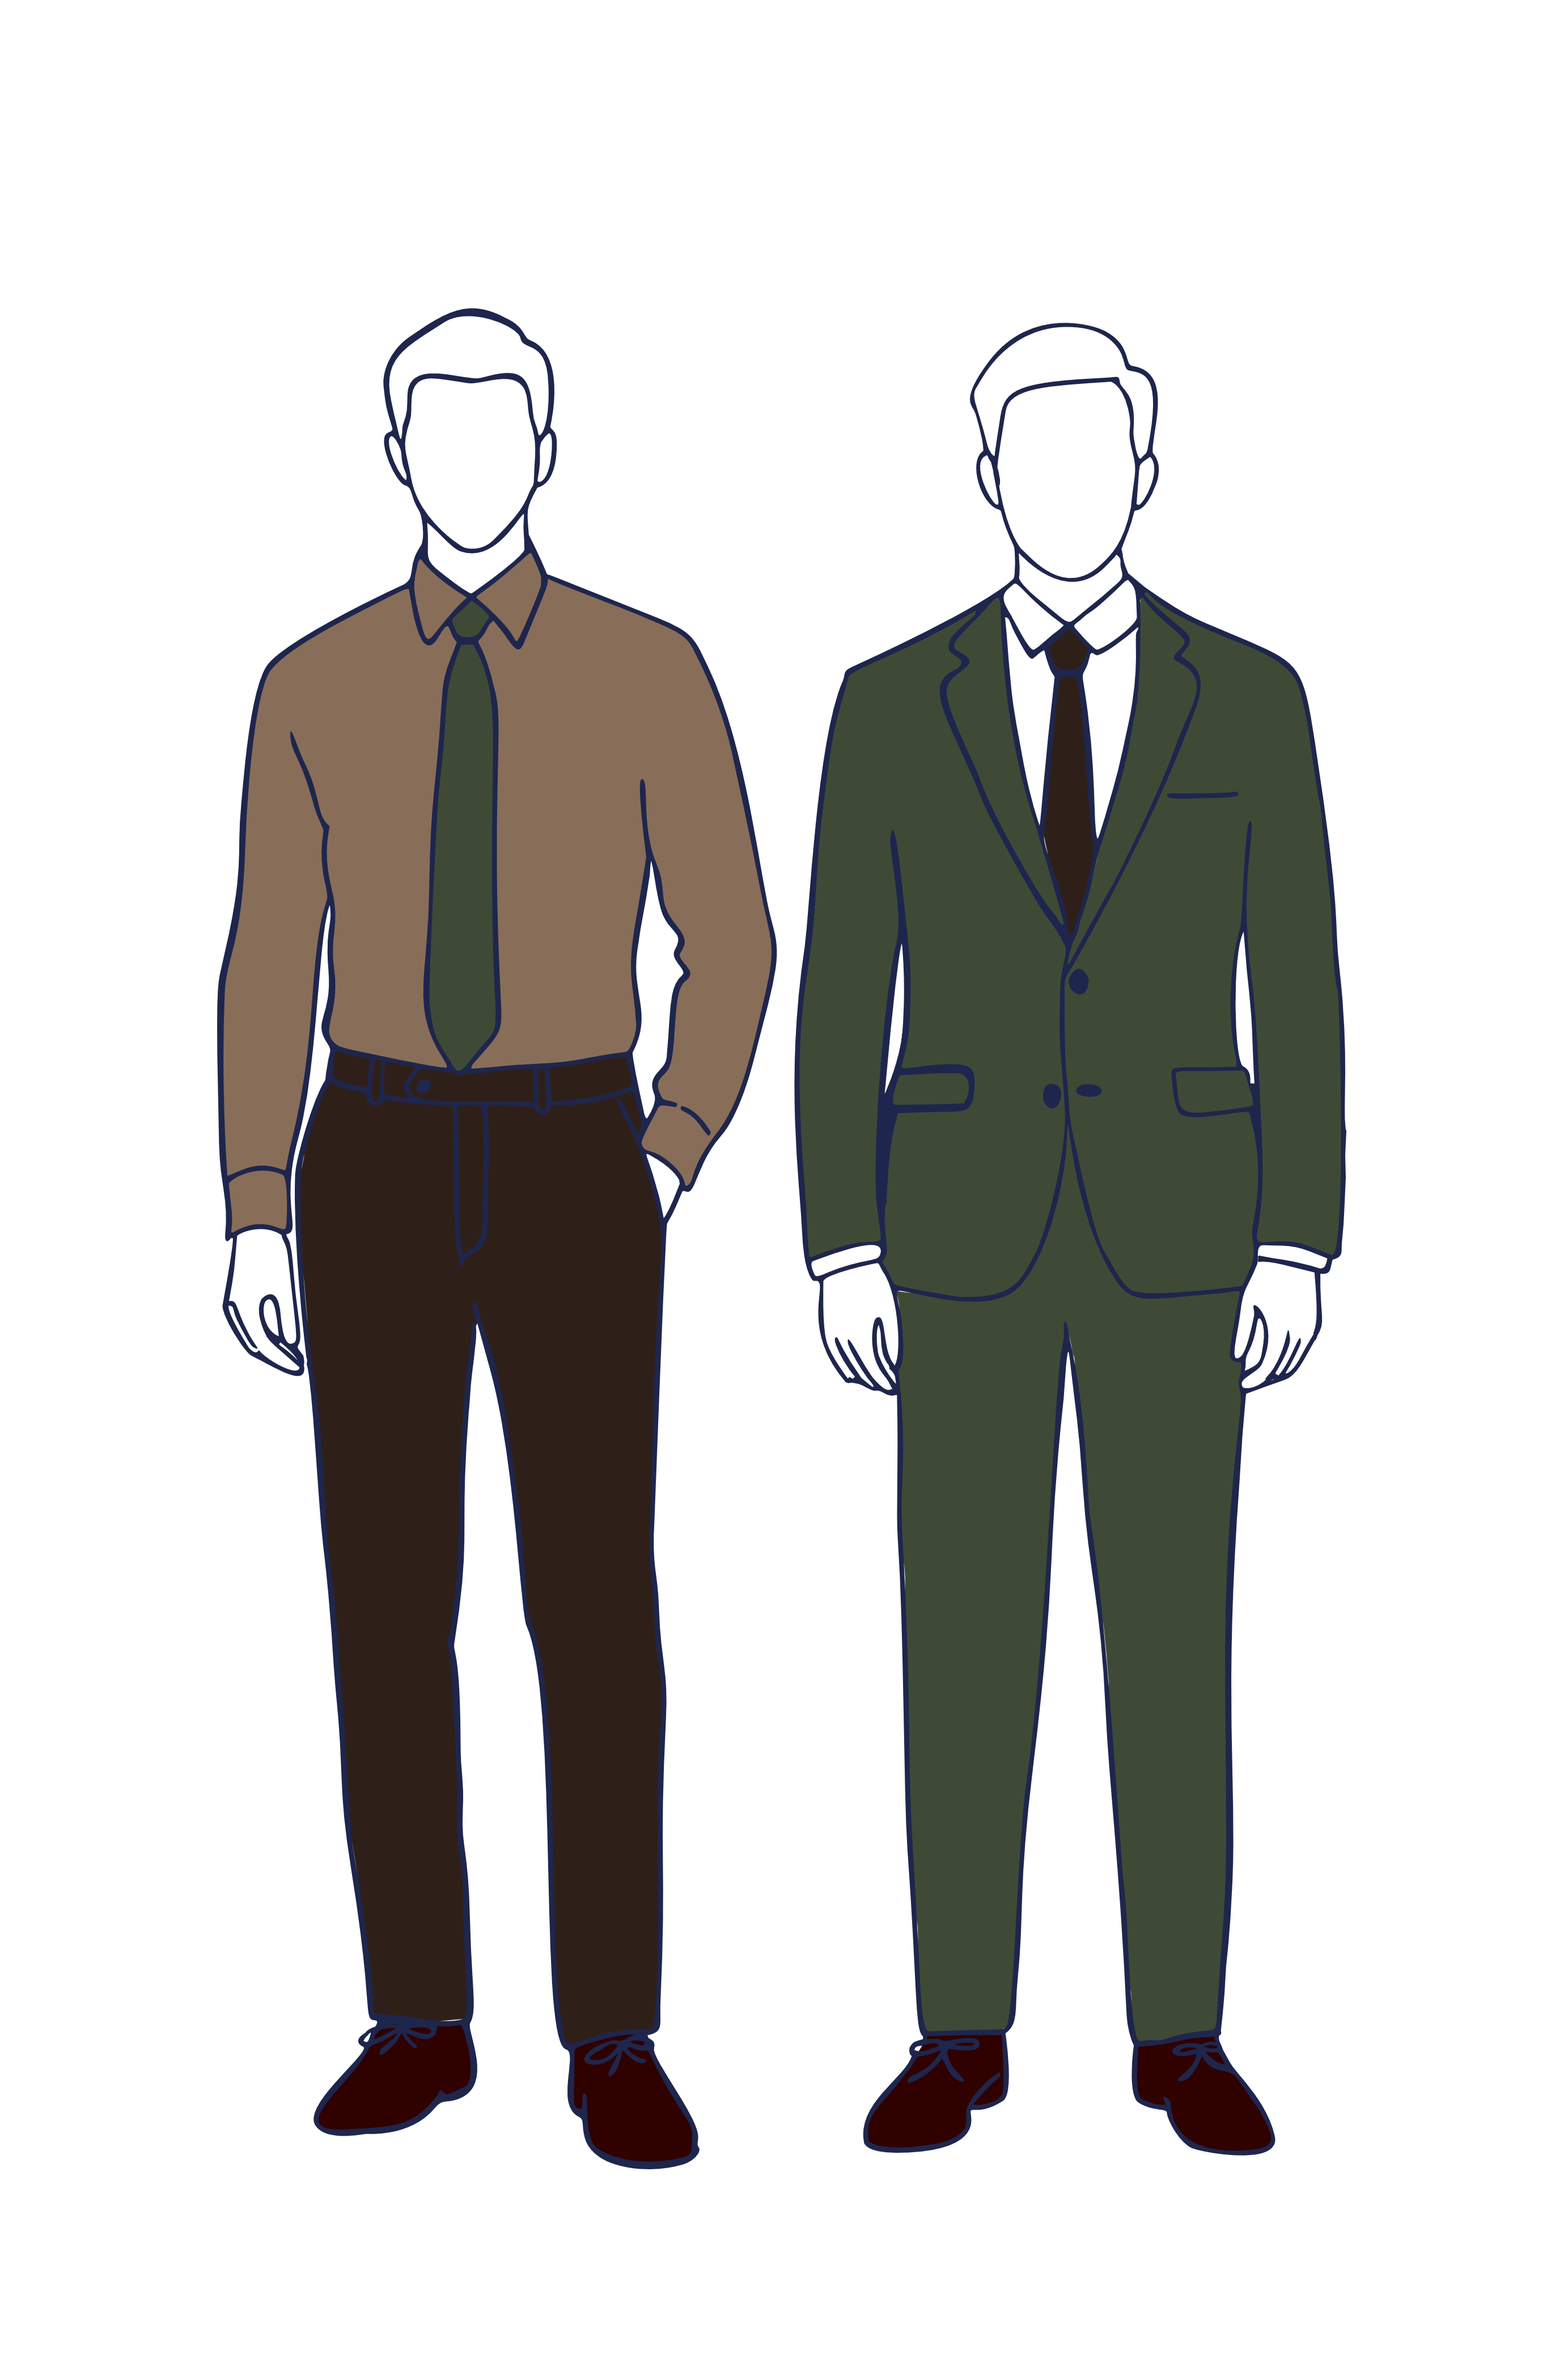
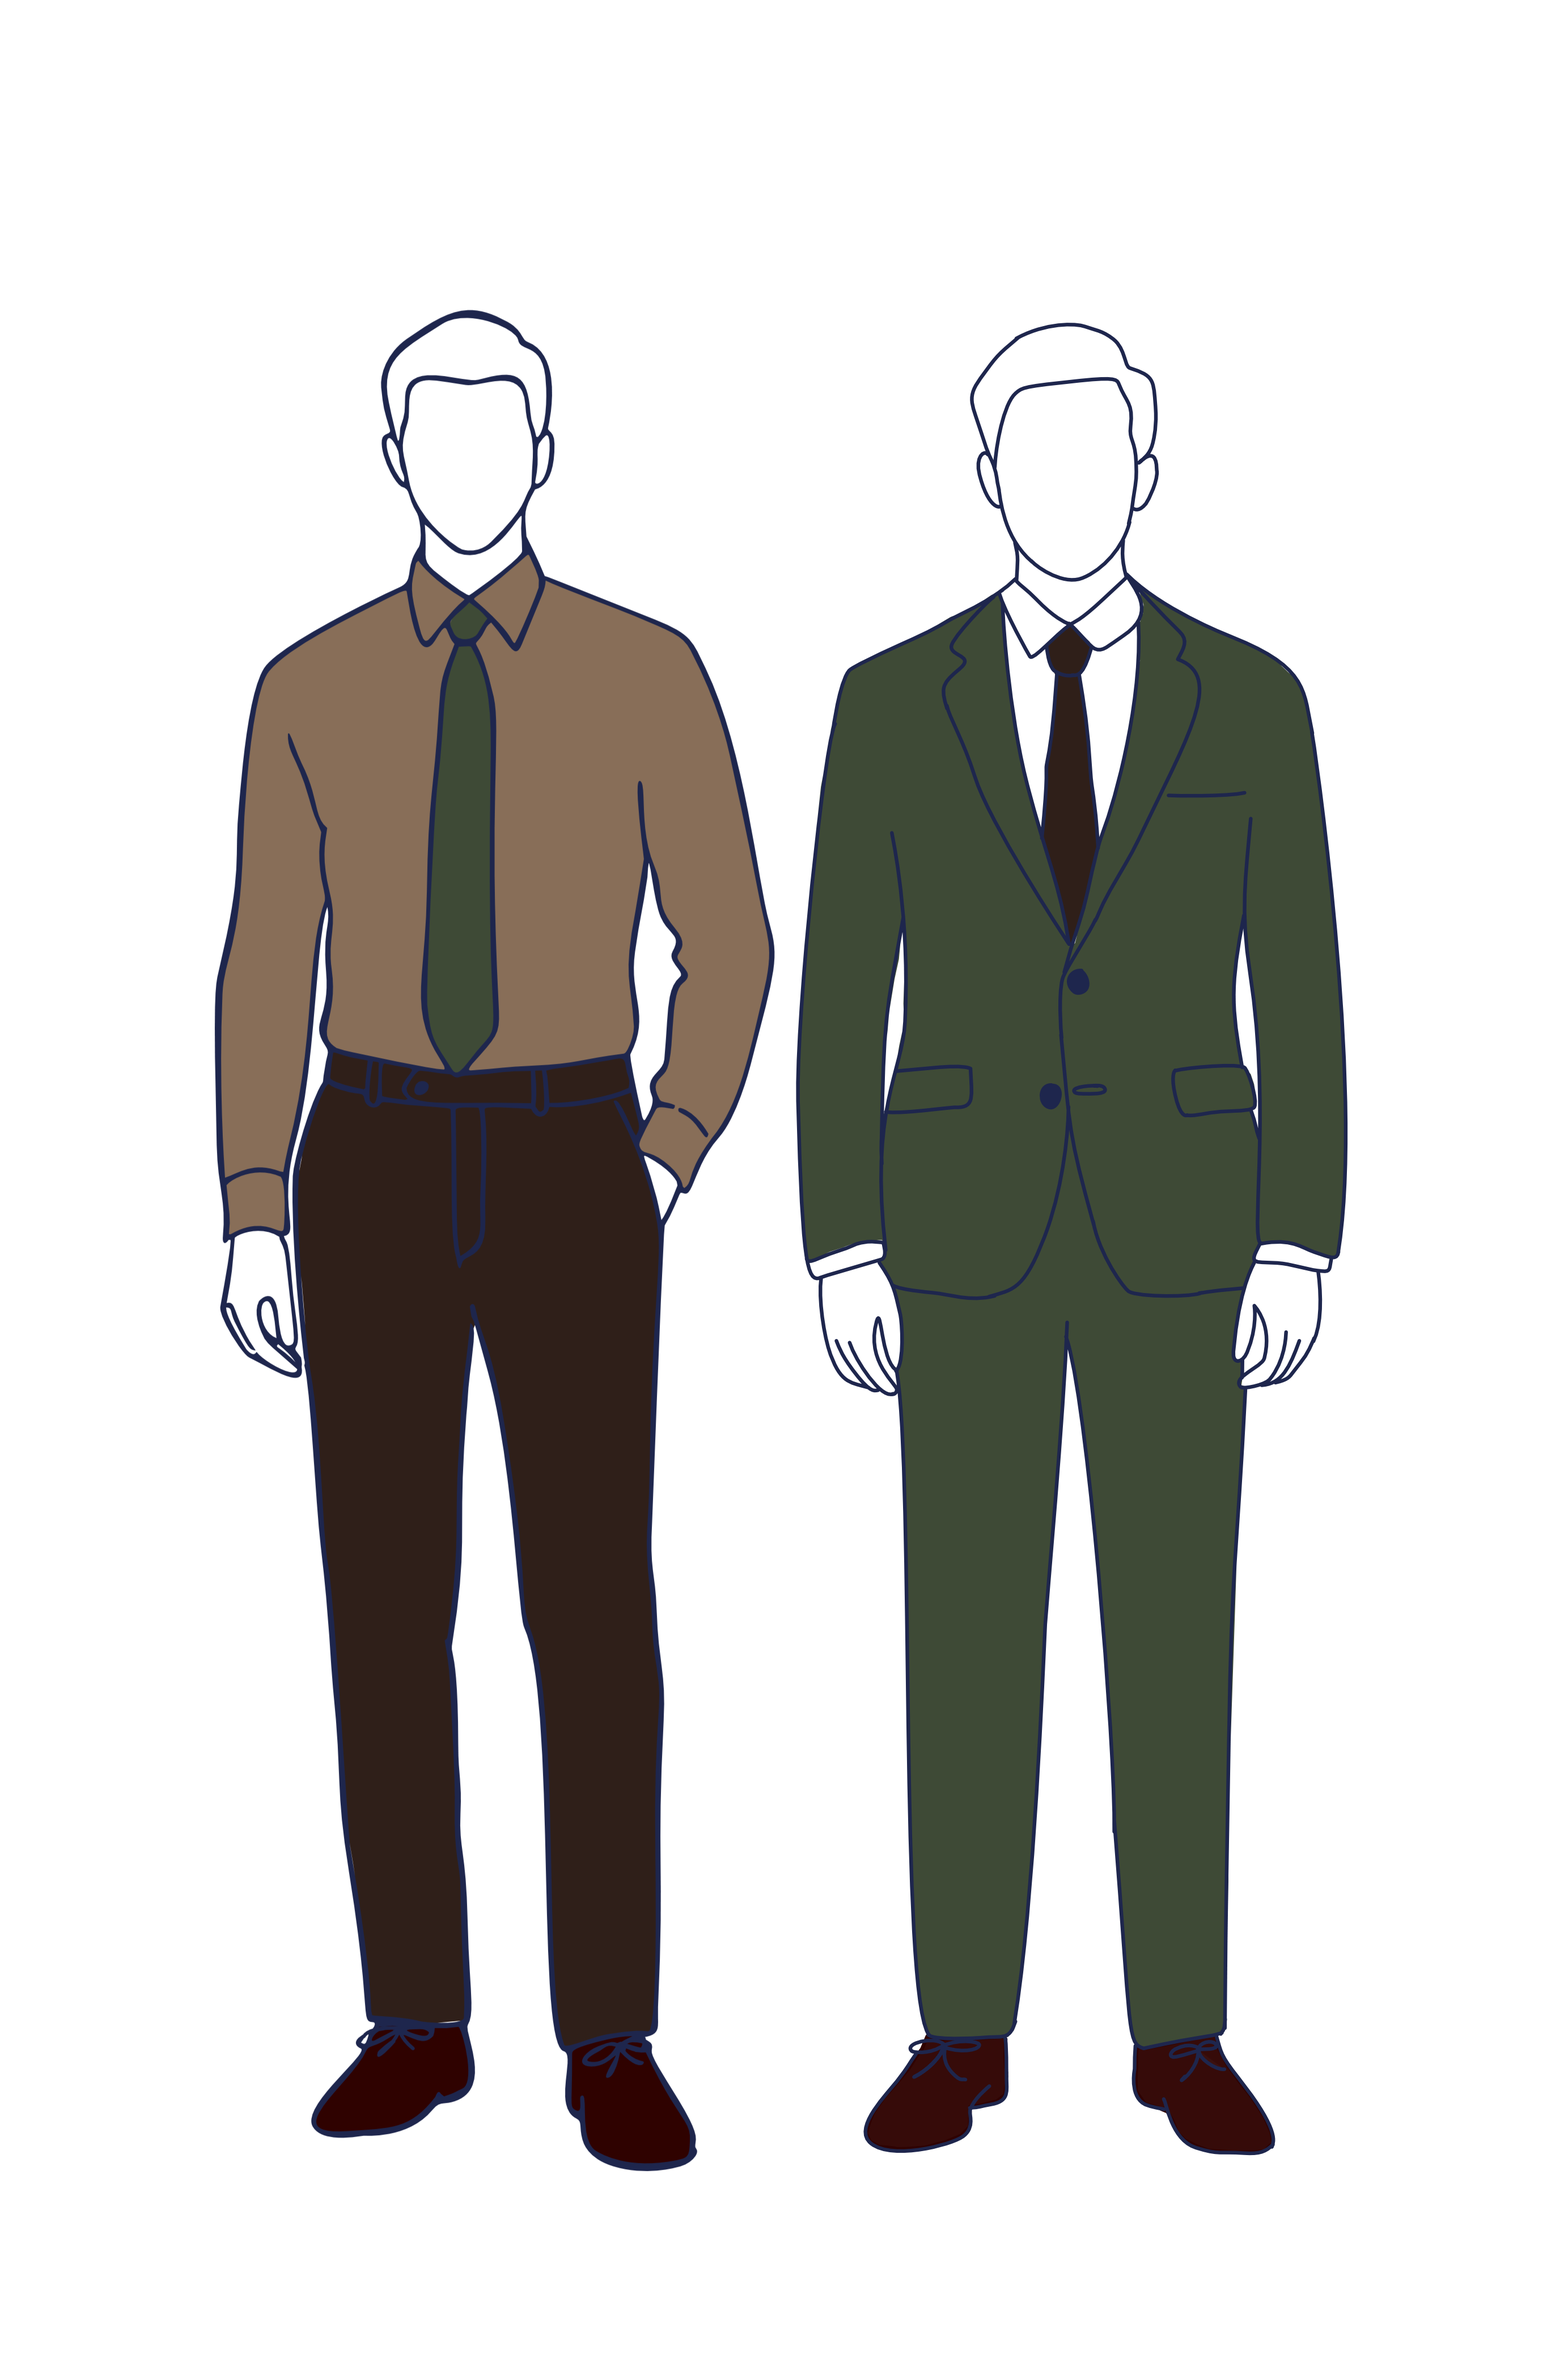
upd

diff --git a/src/components/Entourage.tsx b/src/components/Entourage.tsx
@@ -11,6 +11,7 @@ const GROOMSMEN = [
   "Lee Carlo A. Elaydo",
   "Ervin Josh A. Ong",
   "Lance Christian C. Teope",
+  "John Joseph L. Pariñal",
 ];
 
 const BRIDESMAIDS = [
@@ -25,7 +26,7 @@ const BRIDESMAIDS = [
 // Each couple is one row: [left name, right name]
 const GODPARENTS: [string, string][] = [
   ["Rolly T. Alarcio", "Jennifer E. Alarcio"],
-  ["Joshua Laureta", "Jemma Rhea SP. Laureta"],
+  ["Joshua A. Laureta", "Jemma Rhea SP. Laureta"],
   ["Fortunato N. Almasco Jr.", "Clarina Lorelei S. Almasco"],
 ];
 

diff --git a/src/components/DressCode.tsx b/src/components/DressCode.tsx
@@ -27,7 +27,7 @@ const groups: {
     title: "Parents & Godparents",
     swatchRows: [[{ color: "#1f3350" }]],
     note: "Please wear the designated shade for our parents and godparents.",
-    images: [{ label: "Men", src: "/images/M Parents & Godparents .png" }, { label: "Women", src: "/images/W Parents & Godparents.png" }],
+    images: [{ label: "Men", src: "/images/M Parents Godparents.png" }, { label: "Women", src: "/images/W Parents & Godparents.png" }],
   },
   {
     id: "bridesmaids",

diff --git a/src/components/Invitation.module.css b/src/components/Invitation.module.css
@@ -96,9 +96,9 @@
 
 .map {
   position: absolute;
-  left: 8.8%;
-  top: 27%;
-  width: 44%;
+  left: 1%;
+  top: 22%;
+  width: 58%;
   aspect-ratio: 1;
 }
 

diff --git a/src/components/Entourage.module.css b/src/components/Entourage.module.css
@@ -40,7 +40,6 @@
 .line {
   min-height: 1.8rem;
   padding: 0.15rem 0;
-  border-bottom: 2px solid var(--sky);
   line-height: 1.3;
 }
 
